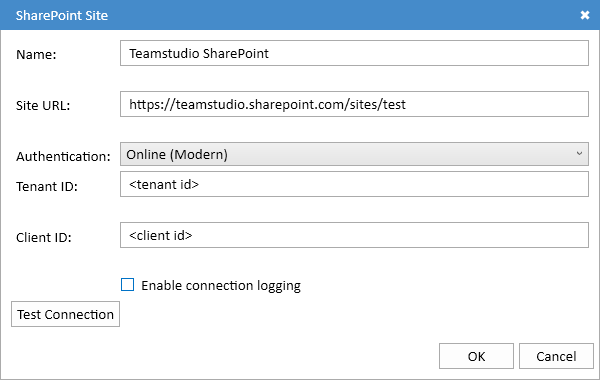
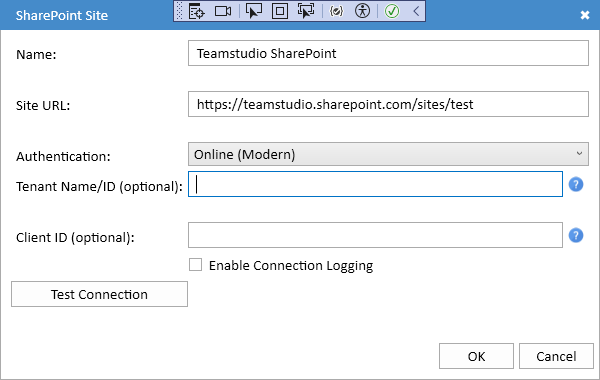
Update EN docs for 5.0.0 beta 2

diff --git a/docs/spsites.md b/docs/spsites.md
@@ -42,7 +42,7 @@ If username and password authentication is available to you, then choose *Online
 Enter your usernmae and password into the appropriate fields. You can use the *Test Connection* button to verify that everything is working correctly. Your password will be encrypted using the Microsoft Data Protection APIs (DPAPI) and will not be readable by any other user logging onto the computer.
 
 ## Online (Modern) Authentication
-This authentication method for SharePoint Online requires more configuration but offers significantly enhanced security. In particular, your admin will need to register Export as an allowed application. This is a fairly simple process, but it must be performed by a user with the necessary rights to access Entra.
+This authentication method for SharePoint Online offers significantly enhanced security and is recommended for most users.
 
 If you select *Online (Modern)* authentication, your dialog will look like this:
 
@@ -50,14 +50,20 @@ If you select *Online (Modern)* authentication, your dialog will look like this:
   ![SharePoint Site Modern](img/sp_sitemodern.png)
 </figure>
 
-You will need a *Tenant ID* and *Client ID* from your SharePoint admin team. The steps for an admin to perform are listed below. Note that these steps only need to be performed once for all users in your organization.
+While this method uses a *Tenant ID* and *Client ID*, Export can usually provide these values automatically and you will leave these fields blank.
 
-Once you have your Tenant ID and Client ID, you can use the *Test Connection* button to verify that everything is set up correctly. The first time you use it, you will be prompted to log in with your username and password. This will generate an access token that will saved on your computer so that you do not need to log in again. The access token is saved in a file named *MSALCache* in your local application data folder, usually AppData\Local\Teamstudio in your home folder. As with passwords, this file is encrypted using DPAPI and is not readable by any other user logging onto the computer.
+### Tenant ID
+The *Tenant ID* identifies your organization on Microsoft 365. If your Site URL is of the form *https://<tenant\>.sharepoint.com/...* then *<tenant\>* is your tenant name, and Export will be able to retrieve the Tenant ID automatically. In that case, you can leave the *Tenant Name/ID* field blank. If your Site URL is not on sharepoint.com then you will need to ask your administrator for your tenant name or ID. You can enter either into the Tenant ID field.
+
+### Client ID
+The *Client ID* identifies the application that you will use to access SharePoint. In most cases, you can leave this blank to use the default *Teamstudio Export* application that we have registered. If your organization does not allow you to grant access to third-party applications then your administrator will need to register a private application as described below. They can then give you the Client ID for that application.
+
+Once you have set your Tenant ID and Client ID if necessary, you can use the *Test Connection* button to verify that everything is set up correctly. The first time you use it, you will be prompted to log in with your username and password. This will generate an access token that will saved on your computer so that you do not need to log in again. The access token is saved in a file named *MSALCache* in your local application data folder, usually AppData\Local\Teamstudio in your home folder. As with passwords, this file is encrypted using DPAPI and is not readable by any other user logging onto the computer.
 
 If you have problems connecting, you can enable detailed connection logging by checking the *Enable Connection Logging* box. This will write a detailed connection log to a log file in your local application data folder. The log will not include any personally identifiable information. 
 
 ## Registering Teamstudio Export in Entra
-These are instructions for your SharePoint Online administrator. They can configure SharePoint Online to allow application access and give you the necessary values you need to configure Export.
+These are instructions for your SharePoint Online administrator. They are necessary only if you cannot or do not want to use the default application that we have registerd. In most cases they will not be needed. Your administrator can configure SharePoint Online to allow application access and give you the necessary values you need to configure Export.
 
 Export must be registered as an application in Microsoft Entra with the necessary permissions to write and create lists. This is performed from [Microsoft Entra](https://entra.microsoft.com).
 

diff --git a/docs/data.md b/docs/data.md
@@ -106,6 +106,9 @@ The final step is to configure the columns to be exported. Each column has a tit
 * **Content** This describes the content of the column. It cannot be directly edited.
 * **Type** The datatype of the column. This is only relevant for SharePoint, since list columns need to have a datatype in SharePoint. In CSV, all columns are treated as text, so that Export can format them using the number/datetime formatting options specified in the original Notes database. The datatype will be automatically set from Notes when you add a new column from a form field, but you can change it by clicking on it in the list. Export will attempt to convert data to the requested column type, but will leave the column blank if the conversion is not possible.
 
+!!! note
+    The *Text* column type is limited to 255 characters to meet SharePoint requirements. Export will truncate longer values if necessary. If you have longer text values, you may want to use the *Multiline Text* type instead.
+
 The columns are not used at all when you are exporting attachments.
 
 You can delete a column by selecting it and hitting the *Delete* key or by right-clicking on it and choosing *Remove* from the menu. If you delete a column by mistake, you can add it back using the *Add...* button. You can also reorder columns in the output by dragging them up and down in the list.

diff --git a/docs/release.md b/docs/release.md
@@ -25,6 +25,11 @@ There is no need to re-archive your database to take advantage of any of the new
 Please refer to [Installing Teamstudio Export](installing.md) for details on system requirements and installation. This page will be updated with any known issues and fixes as they become available.
 
 ## Fix List
+### Export 5.0.0 Beta 2
+[188138621] Simplify SharePoint modern authenticaion  
+[188138649] Sharepoint site dialog may not close on OK  
+[188152811] Truncate text at 255 characters to meet SharePoint requirements
+
 ### Export 5.0.0
 [187316243]	Handle missing view data file in @DbLookup  
 [187318928]	Provide a way to import DXL to an archive  
